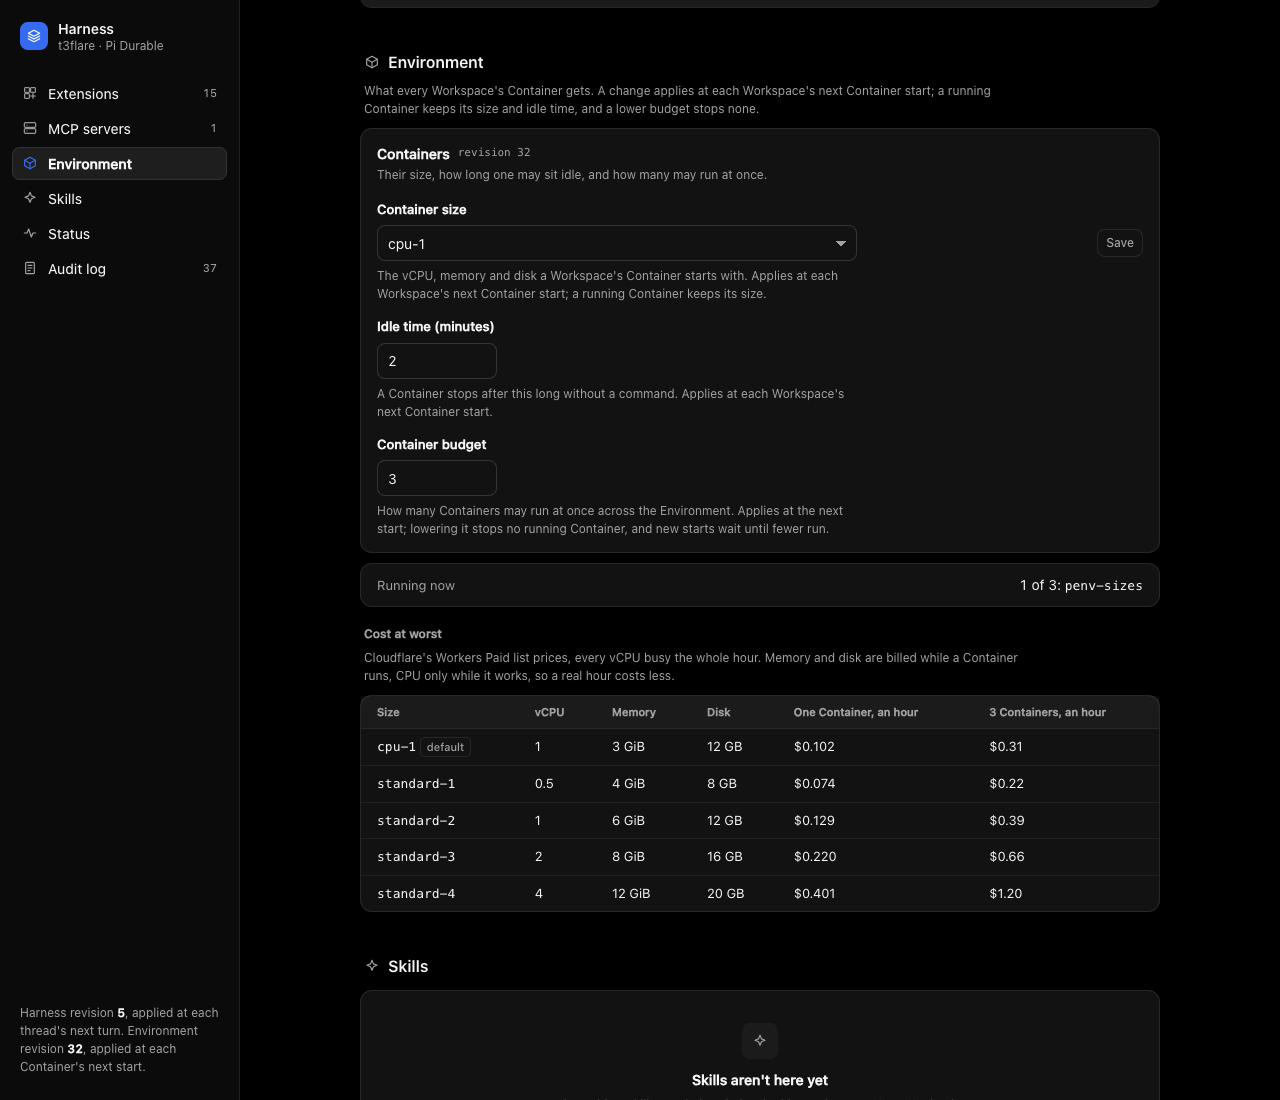
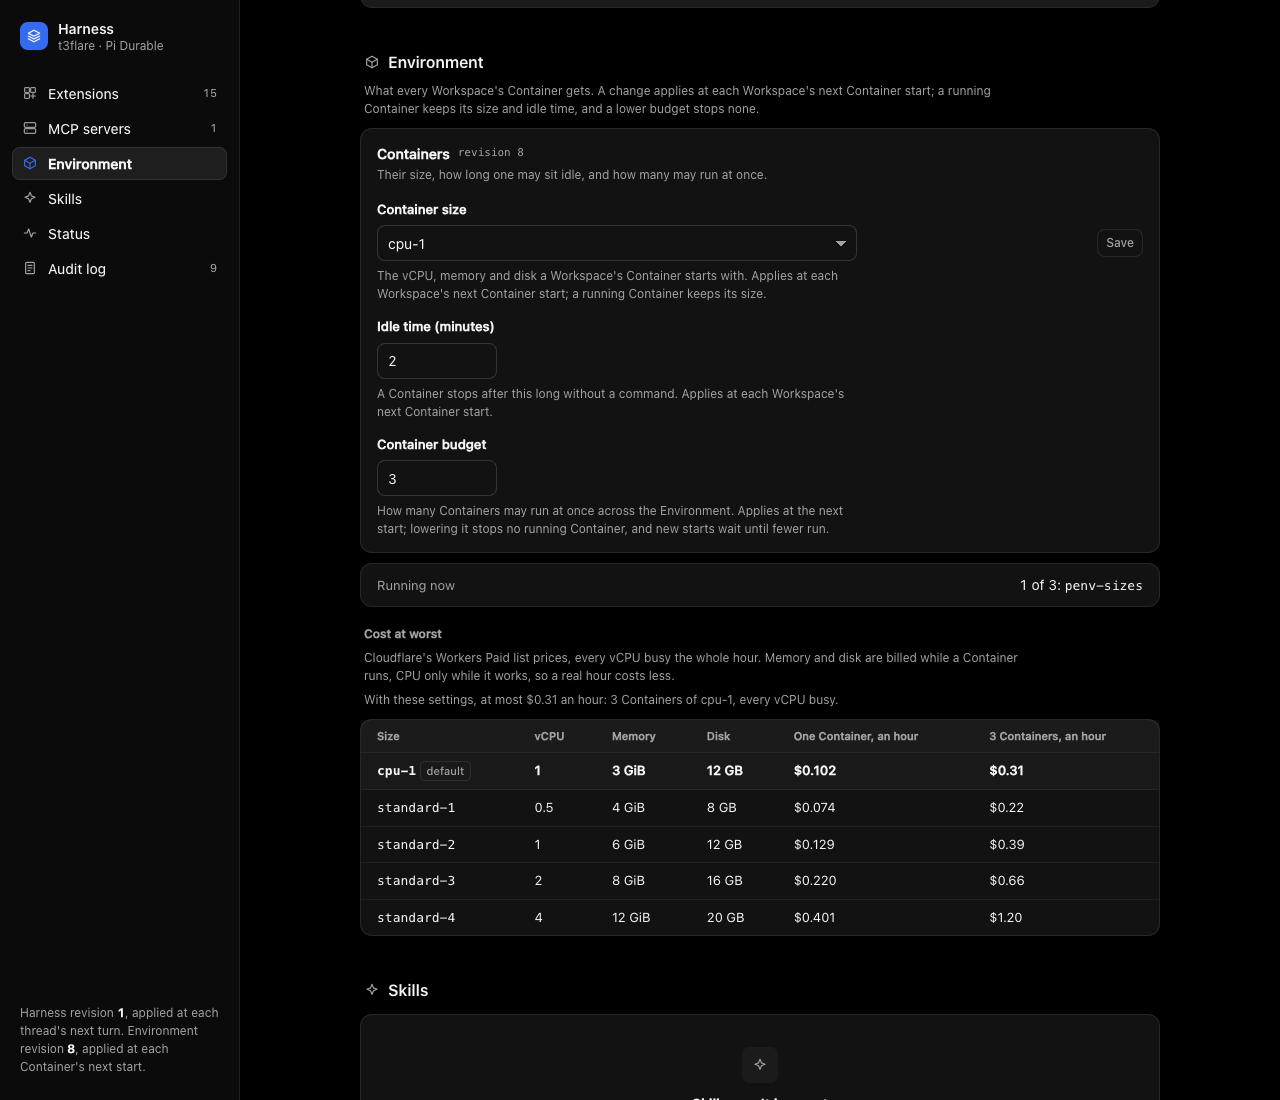
docs: evidence retaken at f165c87 (budget, audit, live cost, screenshots); report names each file's commit (SPI-1149 review 2)

diff --git a/docs/steps/environment-settings.md b/docs/steps/environment-settings.md
@@ -51,9 +51,10 @@ with a refinement note in ADR-0026. Evidence: [`environment-settings/`](environm
     renewals and status, and ignores a value out of bounds. `T3FLARE_MAX_CONTAINERS` still wins.
   - A holder is always renewed. Before this change, a renewal was refused once the other holders reached the max,
     which a lower budget would have triggered.
-  - The refusal is `Container budget (N) reached: raise it at /_t3flare/harness#environment`. It is short because
-    computer keeps only the first 240 characters of a failed start's message, its own ~120-character prefix included,
-    and that message is what terminals and CLI agents see.
+  - The refusal is `Container budget (N) reached: raise it at /_t3flare/harness#environment`. computer wraps it in its
+    connect errors and keeps only the first 240 characters of each message, its own ~120-character prefix included,
+    and fewer after a `priorExit=` (a Container that exited before). The reason is kept short, and the Workspace DO
+    reads it whole from the deepest error in the cause chain (`startRefusal.ts`) for terminals and CLI processes.
 - **Docs.** ADR-0032; the ADR-0026 note; `GLOSSARY.md`: Harness panel (revised), Harness settings, Environment
   settings, Container size, and Container budget (new with the scope change). No t3 lean, so no
   `upstream-fragility.md` entry.
@@ -67,21 +68,33 @@ with a refinement note in ADR-0026. Evidence: [`environment-settings/`](environm
 | The Workspace DO's read, kept-copy fallback, launch (size, idle; a budget only from a fresh read) | `apps/agents/test/containerLaunch.test.ts` |
 | The budget carried on `acquire`, env override winning, lowering below the running count | `apps/agents/test/budget.workerd.test.ts` |
 | Reclaiming enough idle holders or none (two running at a budget of 1) | `apps/agents/test/reclaim.test.ts` |
+| A refused start's whole reason from the cause chain | `apps/agents/test/startRefusal.test.ts` |
 | Separate revisions, audit `entity`, validation, CSRF/Origin/form guards, the section | `apps/environment/test/environmentSettings.test.ts` |
 | The cost table | `apps/environment/test/containerCost.test.ts` (figures from the research's worked example) |
 
 ## Evidence (stage `penv`)
 
-| File | Shows |
-| -- | -- |
-| `sizes.json` | Each size set through the API, then a fresh start, then its limits read in the Container. |
-| `running.json` | A size and idle-time change made while the Container runs, and the next start after its idle stop. |
-| `idle.json` | The idle stop at 1 and 3 minutes. |
-| `budget.json` | The budget at 1, raised to 2, and lowered to 1 with two Containers running. |
-| `revisions.json` | Each entity's revision moving alone. |
-| `audit.json` | Environment entries and an entry written by main's code. |
-| `safety.json` | The new routes refused from outside. |
-| `environment-*.png` | The section, desktop and phone, light and dark, with one Container running. |
+Each file came from a deploy of the commit named. The files from `f165c87` carry it in their `commit` field (the
+deployed build's, from `/_t3flare/health`); the older ones predate that field, and their commit is matched from the
+deploy logs and their `at`.
+
+| File | Shows | Commit deployed |
+| -- | -- | -- |
+| `sizes.json` | Each size set through the API, then a fresh start, then its limits read in the Container. | `fb98003` |
+| `running.json` | A size and idle-time change made while the Container runs, and the next start after its idle stop. | `fb98003` |
+| `idle.json` | The idle stop at 1 and 3 minutes. | `fb98003` |
+| `safety.json` | The new routes refused from outside. | `fb98003` |
+| `revisions.json` | Each entity's revision moving alone. | `8163dcd` |
+| `budget.json` | The budget at 1, raised to 2, and lowered to 1 with two Containers running. | `f165c87` |
+| `audit.json` | Environment entries and an entry written by main's code (`penv` deployed from `main` first). | `f165c87` |
+| `cost-live.json` | The section's script on the stage's page: size and budget changed in the form, not saved; the cost follows. | `f165c87` |
+| `environment-*.png` | The section, desktop and phone, light and dark, with one Container running. | `f165c87` |
+| `environment-live-*.png` | The same after the inputs changed: 5 Containers of `standard-4`, the row marked, at most $2.01 an hour. | `f165c87` |
+
+The `fb98003` files predate the review rounds. Those rounds changed how a launch is built (`launchOf`,
+`containerInstance`, the kept copy read through the schema), not what a start passes or what a running Container keeps;
+the unit tests cover the new paths. `budget.json`, `audit.json` and the screenshots were taken again at `f165c87`
+because the rewritten reclaim, the new `reclaimable()` RPC and the live cost script run only there.
 
 **`sizes.json`.** The limits read in each Container:
 
@@ -144,5 +157,7 @@ before and after.
   that window to one RPC.
 - **A fallback budget is not sent.** A start whose read of the Environment settings timed out carries no budget, and the
   budget DO keeps the owner's last one.
-- **The 240-character cap.** If the Container exited before (`priorExit=` in computer's message), the reason may still
-  be cut in the top message. The full reason is always in the error's causes.
+- **The 240-character cap.** On the `5334eb9` deploy, `budget.json`'s first case met it: that Workspace's Container had
+  exited before, computer added `priorExit=…`, and the top message ended at `Container budget (1`. `f165c87` reads the
+  reason from the cause chain (`startRefusal.ts`), and the harness reads the longest reason in the answer; the case
+  passes there.
